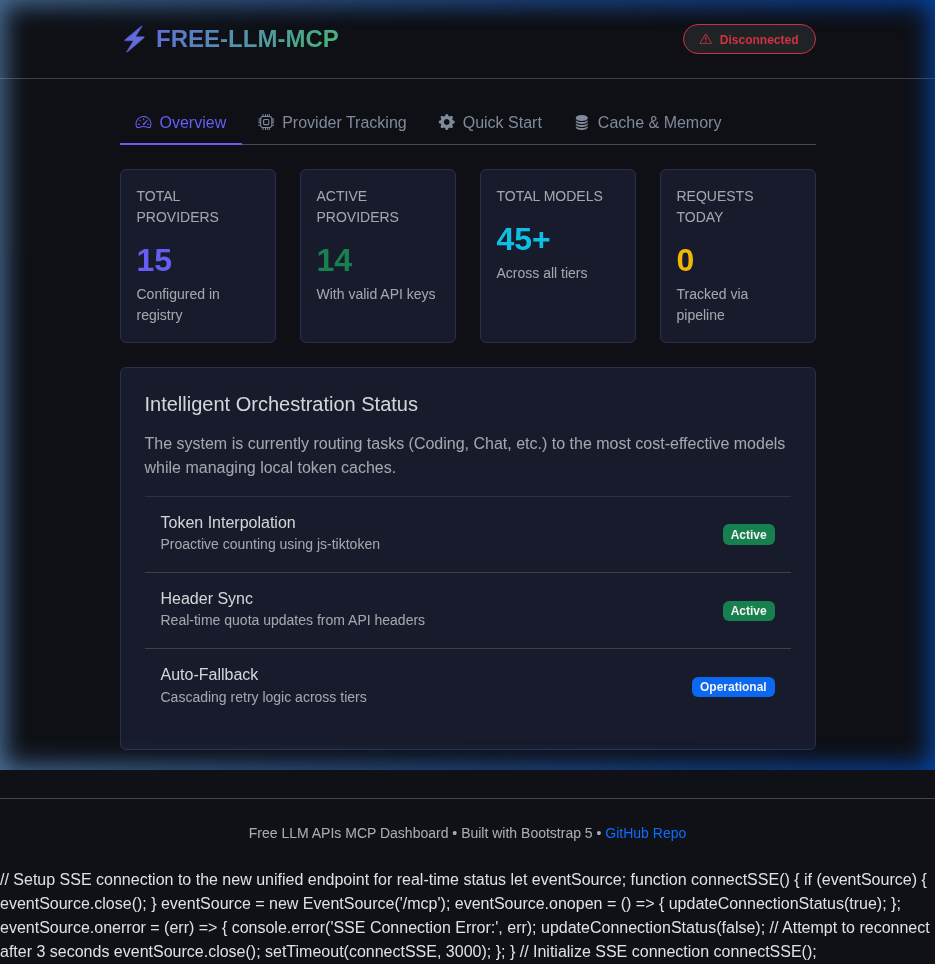
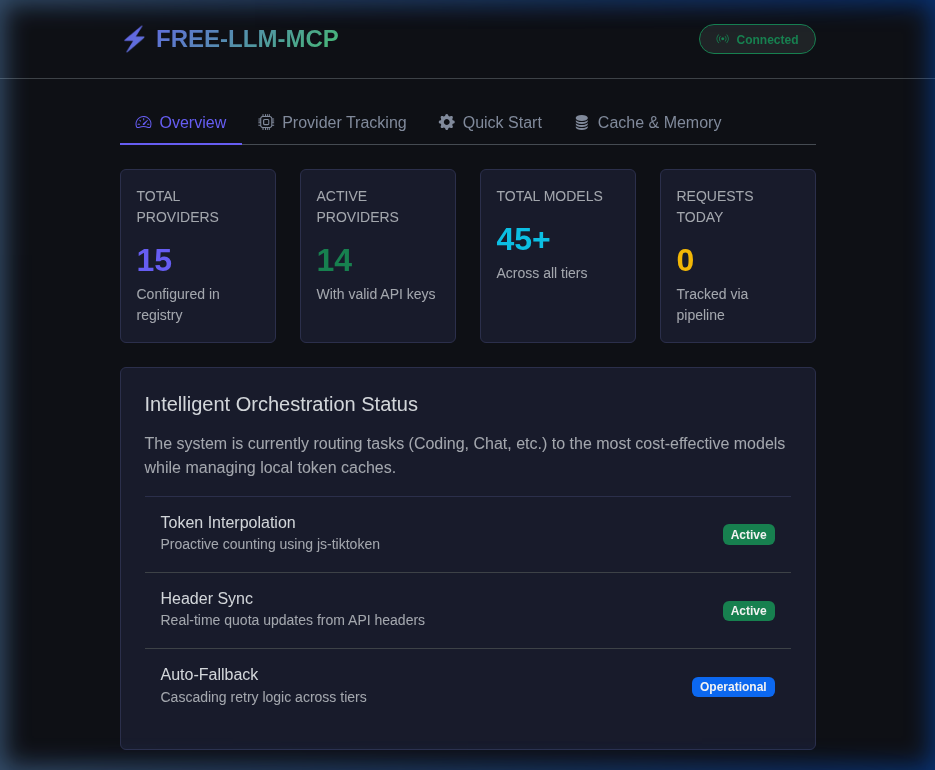
docs: update dashboard assets and fix status stability with heartbeat SSE

Changed region(s): [[0.0, 0.0, 1.0, 1.0], [0.7444, 0.6234, 0.8374, 0.7481], [0.1241, 0.0312, 0.3722, 0.0623]]

diff --git a/mcp-server/src/server.ts b/mcp-server/src/server.ts
@@ -70,6 +70,22 @@ async function main() {
     const sessionMap = new Map<string, { server: any, transport: StreamableHTTPServerTransport }>();
 
     const handleMcpRequest = async (req: express.Request, res: express.Response) => {
+      // Support for dashboard status heartbeat
+      if (req.method === 'GET' && req.query.heartbeat === 'true') {
+        res.writeHead(200, {
+          'Content-Type': 'text/event-stream',
+          'Cache-Control': 'no-cache',
+          'Connection': 'keep-alive',
+          'Access-Control-Allow-Origin': '*'
+        });
+        res.write('event: heartbeat\ndata: {"status":"online"}\n\n');
+        const interval = setInterval(() => {
+          res.write(': heartbeat\n\n'); // SSE comment to keep alive
+        }, 15000);
+        req.on('close', () => clearInterval(interval));
+        return;
+      }
+
       const sessionId = (req.headers['mcp-session-id'] as string) || (req.query.sessionId as string);
 
       if (sessionId && sessionMap.has(sessionId)) {

diff --git a/mcp-server/dashboard/app.js b/mcp-server/dashboard/app.js
@@ -34,10 +34,8 @@ async function fetchStats() {
         stats = data.stats;
 
         renderStats(stats);
-        updateConnectionStatus(true);
     } catch (err) {
         console.error('Fetch failed:', err);
-        updateConnectionStatus(false);
     }
 }
 
@@ -153,7 +151,7 @@ function connectSSE() {
         eventSource.close();
     }
 
-    eventSource = new EventSource('/mcp');
+    eventSource = new EventSource('/mcp?heartbeat=true');
 
     eventSource.onopen = () => {
         updateConnectionStatus(true);
@@ -163,6 +161,7 @@ function connectSSE() {
         console.error('SSE Connection Error:', err);
         updateConnectionStatus(false);
         eventSource.close();
+        eventSource = null;
         // Attempt to reconnect after 3 seconds
         setTimeout(connectSSE, 3000);
     };

diff --git a/mcp-server/dashboard/index.html b/mcp-server/dashboard/index.html
@@ -278,31 +278,6 @@ npm run dashboard</code></pre>
 
   <!-- MCP Interaction Logic -->
   <script src="/app.js"></script>
-    // Setup SSE connection to the new unified endpoint for real-time status
-    let eventSource;
-    function connectSSE() {
-      if (eventSource) {
-        eventSource.close();
-      }
-
-      eventSource = new EventSource('/mcp');
-
-      eventSource.onopen = () => {
-        updateConnectionStatus(true);
-      };
-
-      eventSource.onerror = (err) => {
-        console.error('SSE Connection Error:', err);
-        updateConnectionStatus(false);
-        // Attempt to reconnect after 3 seconds
-        eventSource.close();
-        setTimeout(connectSSE, 3000);
-      };
-    }
-
-    // Initialize SSE connection
-    connectSSE();
-  </script>
 </body>
 
 </html>
